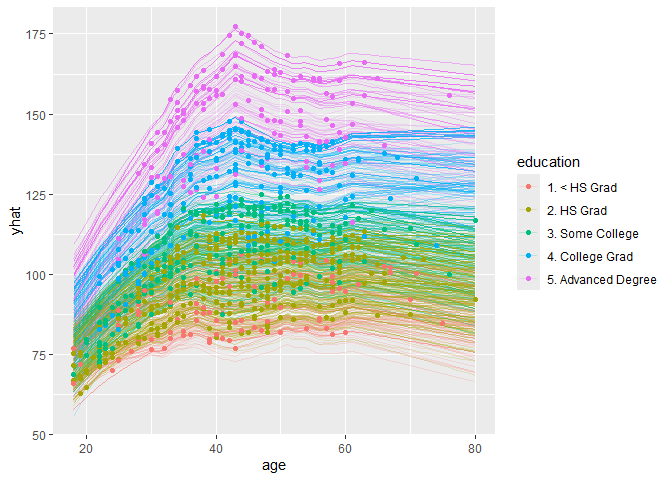
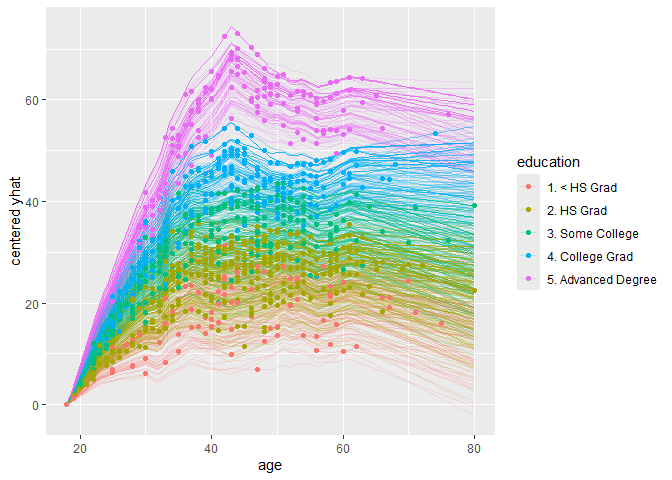
version 0.2.5. - fix some bugs regarding the new term operations - update readme.Rmd

diff --git a/README.md b/README.md
@@ -105,18 +105,18 @@ The fitted MID model can be used to predict the number of bike rentals.
 preds <- predict(mid, valid)
 data.frame(actual = valid$bikers[1:12], predicted = preds[1:12])
 #>    actual  predicted
-#> 1       1   1.698917
-#> 2      56  83.267599
-#> 3      84  99.675678
-#> 4      93  76.897613
-#> 5      37  39.543672
-#> 6      36  29.854852
-#> 7       6   5.191092
-#> 8       3   1.066961
-#> 9      53  67.526821
-#> 10     93 100.375652
-#> 11     31  35.168636
-#> 12      3   4.316586
+#> 1       1   1.698922
+#> 2      56  83.267957
+#> 3      84  99.675279
+#> 4      93  76.897362
+#> 5      37  39.543823
+#> 6      36  29.854763
+#> 7       6   5.191190
+#> 8       3   1.066977
+#> 9      53  67.527428
+#> 10     93 100.374671
+#> 11     31  35.168873
+#> 12      3   4.316623
 ```
 
 ``` r
@@ -165,6 +165,19 @@ ggmid(mid, "hr:factor(workingday)", include.main.effects = TRUE)
 
 <img src="man/figures/README-bikeshare_interaction-1.png" width="100%" />
 
+It is easy to generate *individual conditional expectation* (ICE) plots
+for the fitted MID surrogate model.
+
+``` r
+# create a mid conditional object
+ice_rows <- sample(nrow(valid), 200L)
+mc <- mid.conditional(mid, "hr", data = valid[ice_rows,])
+# visualize the individual conditional expectation
+ggmid(mc, variable.colour = factor(workingday), alpha = .2)
+```
+
+<img src="man/figures/README-bikeshare_conditional-1.png" width="100%" />
+
 **Fitting a MID Model as a Global Surrogate of the Target Model**
 
 In the next example, we construct a ranger model of `wage` based on the
@@ -188,9 +201,9 @@ rmse(predict(model, valid)$predictions, valid$wage)
 ```
 
 When the target model is passed to the argument `model`, `interpret()`
-replaces the response variable with the values predicted by the target
-model. Thus, the fitted MID model can be viewed as *an interpretable
-model of the target model*.
+replaces the response variable with the predicted values given by the
+target model. Thus, the fitted MID model can be viewed as *an
+interpretable model of the target model*.
 
 ``` r
 # MID surrogae or the ranger model
@@ -215,7 +228,7 @@ print(mid, omit.values = TRUE)
 ``` r
 # interpretation loss
 rmse(predict(mid, valid), predict(model, valid)$predictions)
-#> RMSE: 2.75628
+#> RMSE: 2.75629
 ```
 
 To the extent that the MID model is acceptable as a surrogate for the
@@ -235,9 +248,9 @@ ggmid(mid, term = "age:education", include.main.effects = TRUE)
 
 <img src="man/figures/README-wage_terms-2.png" width="100%" />
 
-The following plot compares the *permutation feature importance* (PFI)
-of the target `ranger` model and the term importance (TI) of the MID
-surrogate model.
+The following plot compares the term importance (TI) of the `midr`
+surrogate with the *permutation feature importance* (PFI) of the target
+`ranger` model.
 
 ``` r
 # permutation feature importance of variables
@@ -254,15 +267,15 @@ grid.arrange(nrow = 1,
 
 <img src="man/figures/README-wage_importance-1.png" width="100%" />
 
-It is easy to generate *individual conditional expectation* (ICE) plots
-for the fitted MID surrogate model. In addition, the ICE can be
-decomposed into the effects of the component functions.
+Because the prediction function of the MID model is a sum of the simple
+component terms, the individual conditional effect can be decomposed
+into the effects of each term.
 
 ``` r
 # create a mid conditional object
 mc <- mid.conditional(mid, "age", train)
 # visualize the individual conditional expectation
-ggmid(mc, variable.colour = education, alpha = .2)
+ggmid(mc, variable.colour = education, centered = TRUE, alpha = .2)
 ```
 
 <img src="man/figures/README-wage_conditional-1.png" width="100%" />
